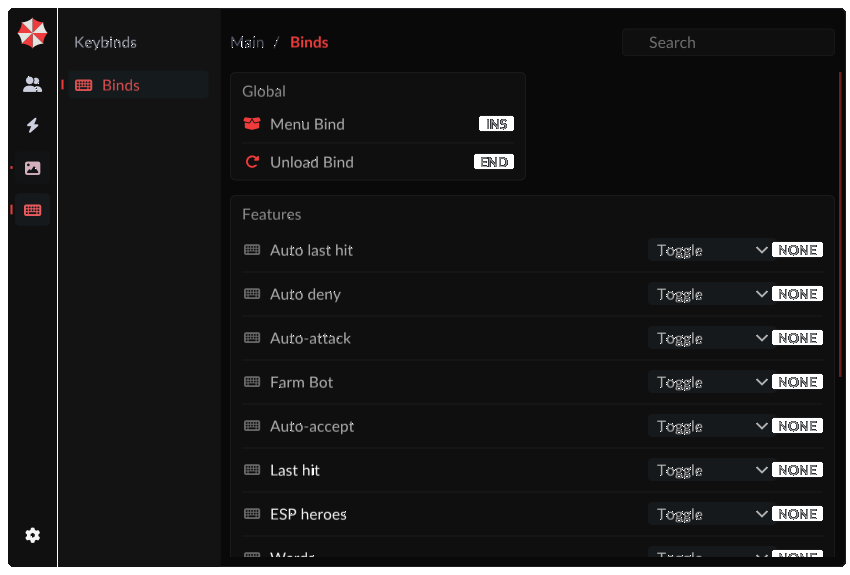
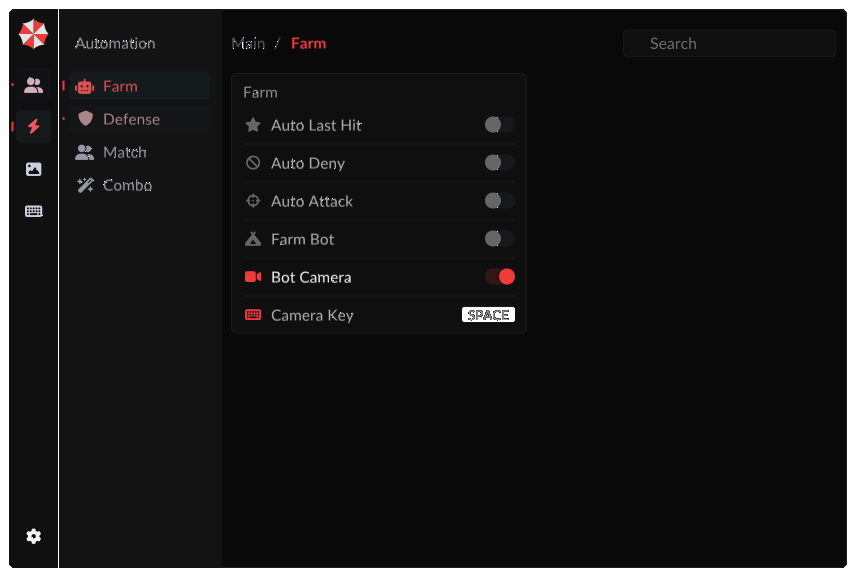
Site: download section, raw DLL asset, fixed gallery

diff --git a/index.html b/index.html
@@ -151,29 +151,20 @@
 
     <div class="gal">
       <figure class="shot" style="margin:0">
-        <img src="assets/img/menu-esp.png" alt="Страница ESP" width="856" height="628">
+        <img src="assets/img/menu-esp.png" alt="Страница ESP" width="850" height="575">
         <figcaption class="cap"><span class="n">01</span><b>ESP</b> — герои, кулдауны, карта, крипы</figcaption>
       </figure>
-      <div class="gal-side">
-        <figure class="shot" style="margin:0">
-          <img src="assets/img/skin-picker.png" alt="Окно выбора скина" width="468" height="604">
-          <figcaption class="cap"><span class="n">02</span><b>Skin Picker</b> — 60 героев, по слоту</figcaption>
-        </figure>
-        <figure class="shot" style="margin:0">
-          <img src="assets/img/hud.png" alt="Мини-HUD" width="400" height="472">
-          <figcaption class="cap"><span class="n">03</span><b>Мини-HUD</b> — FPS, пинг, скин</figcaption>
-        </figure>
-      </div>
-    </div>
-
-    <div class="gal" style="margin-top:16px">
       <figure class="shot" style="margin:0">
-        <img src="assets/img/menu-skins.png" alt="Страница Skin Changer" width="856" height="628">
-        <figcaption class="cap"><span class="n">04</span><b>Vision</b> — туман, свечение, скинченджер</figcaption>
+        <img src="assets/img/menu-skins.png" alt="Страница Vision со скинченджером" width="850" height="575">
+        <figcaption class="cap"><span class="n">02</span><b>Vision</b> — туман, свечение, скинченджер</figcaption>
       </figure>
       <figure class="shot" style="margin:0">
-        <img src="assets/img/menu-automation.png" alt="Страница автоматизации" width="856" height="628">
-        <figcaption class="cap"><span class="n">05</span><b>Automation</b> — фарм, защита, матч, комбо</figcaption>
+        <img src="assets/img/menu-automation.png" alt="Категория автоматизации" width="850" height="575">
+        <figcaption class="cap"><span class="n">03</span><b>Automation</b> — фарм, защита, матч, комбо</figcaption>
+      </figure>
+      <figure class="shot" style="margin:0">
+        <img src="assets/img/skin-picker.png" alt="Окно выбора скина" width="450" height="595">
+        <figcaption class="cap"><span class="n">04</span><b>Skin Picker</b> — 9 576 предметов из схемы игры</figcaption>
       </figure>
     </div>
   </div>

diff --git a/assets/style.css b/assets/style.css
@@ -162,7 +162,7 @@ section{padding:74px 0}
 }
 
 /* ---------- gallery ---------- */
-.gal{display:grid;grid-template-columns:1.55fr 1fr;gap:16px}
+.gal{display:grid;grid-template-columns:1fr 1fr;gap:16px;align-items:start}
 .gal .shot{
   border-radius:var(--radius);overflow:hidden;border:1px solid var(--line);background:#0d0d10;
   transition:border-color .22s,box-shadow .22s;position:relative;
@@ -175,7 +175,6 @@ section{padding:74px 0}
 }
 .gal .cap b{color:var(--bright);font-weight:600}
 .gal .cap .n{font-family:var(--mono);font-size:11.5px;color:var(--accent);opacity:.8}
-.gal-side{display:grid;grid-template-rows:1fr 1fr;gap:16px}
 
 /* ---------- steps ---------- */
 .steps{display:grid;grid-template-columns:repeat(3,1fr);gap:16px;counter-reset:s}
